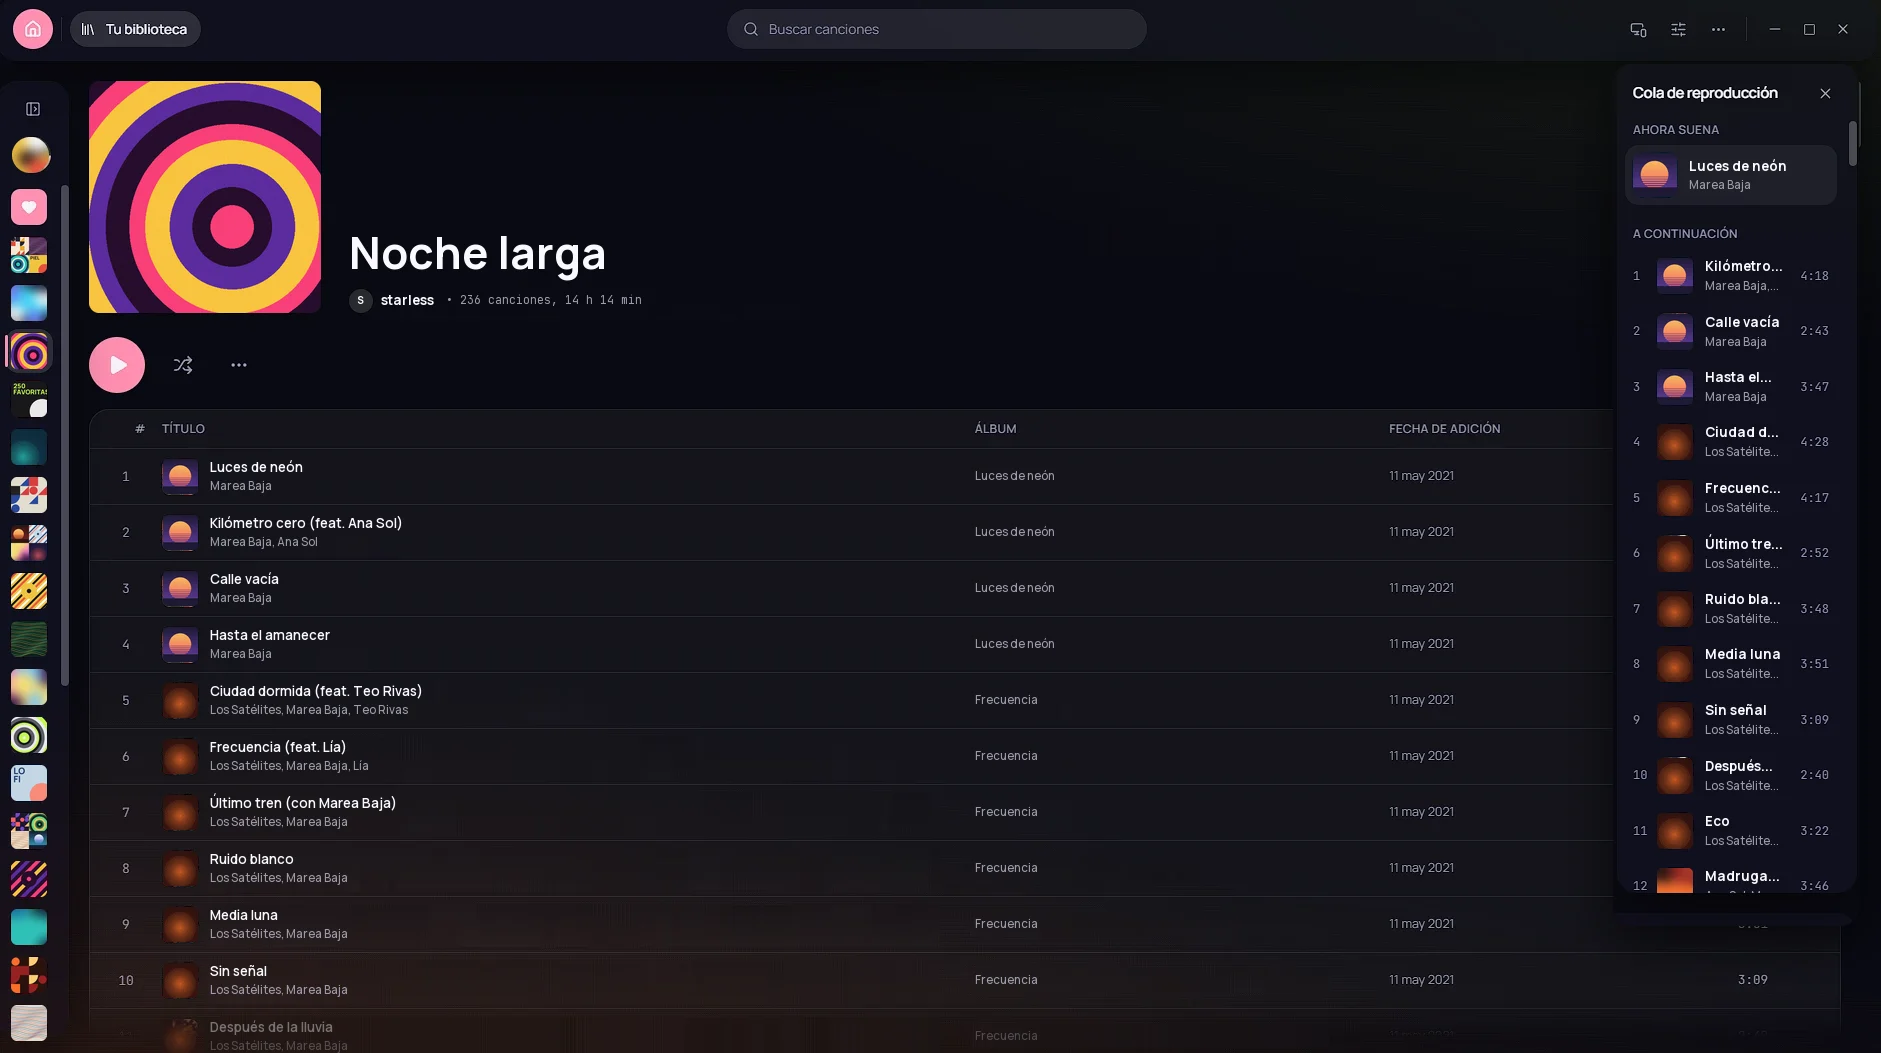
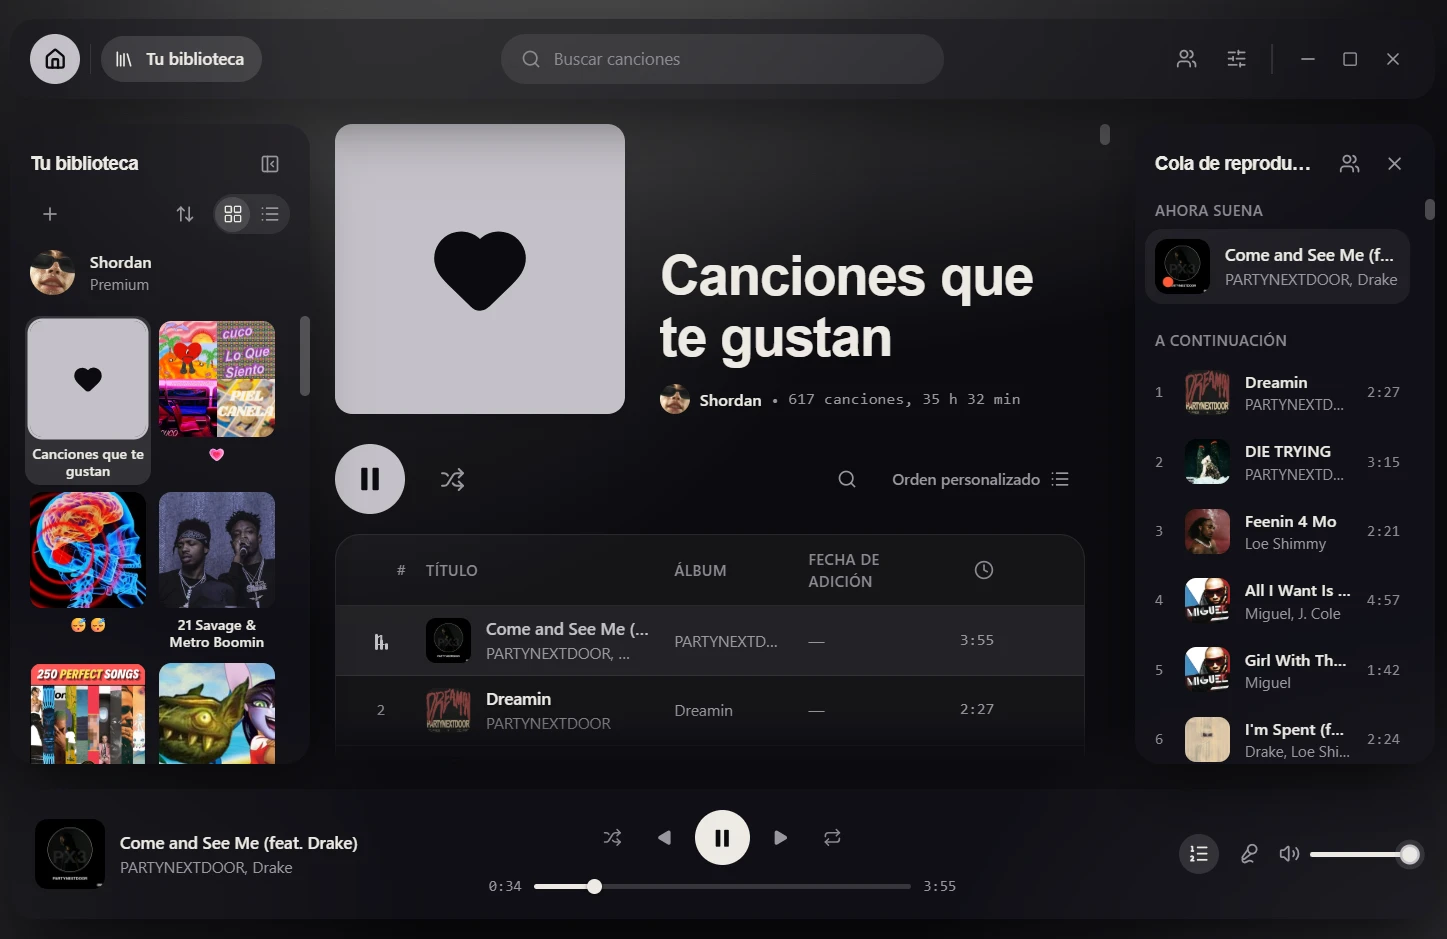
docs(site): describe the glass key and retake two screenshots
The library and queue captures now show the app with the new identity; the
library one is trimmed of a strip of desktop on its right edge. site/DESIGN.md
drops the chrome key for the ember-under-glass one and notes that the
playlist and settings captures still show the old look.

diff --git a/site/DESIGN.md b/site/DESIGN.md
@@ -5,6 +5,7 @@ colors:
   ground: "#0b0b0f"
   night: "#15151b"
   chrome: "#c4c1c8"
+  glass: "rgb(255 255 255 / 0.14)"
   frost: "#edeae3"
   body: "#c4c1c8"
   mute: "#9a97a0"
@@ -66,14 +67,14 @@ spacing:
   block: "48px"
 components:
   download-key:
-    backgroundColor: "{colors.chrome}"
-    textColor: "{colors.ground}"
+    backgroundColor: "{colors.glass}"
+    textColor: "{colors.frost}"
     typography: "{typography.action}"
     rounded: "{rounded.capsule}"
     padding: "15px 24px"
   download-key-compact:
-    backgroundColor: "{colors.chrome}"
-    textColor: "{colors.ground}"
+    backgroundColor: "{colors.glass}"
+    textColor: "{colors.frost}"
     rounded: "{rounded.capsule}"
     padding: "12px 18px"
   player-bar:
@@ -112,13 +113,13 @@ The page is a still room with one thing moving in it: a pool of black ferrofluid
 
 Order comes from rings, not boxes. Concentric hairline circles centred on the pool pass through the top edge of every section, so reading down the page is travelling outward from the speaker; each section change sends a wave from one ring to the next. Content sits on the ground between hairlines, never in cards, never behind glass.
 
-Colour is withheld on purpose. Void for the ground, glass over Night for the one floating surface, Bone for type, and polished chrome for the single action. The one hue is Ember, on the player's progress fill and nothing else; everything else is reflected light. The user rejected a colourful, retro, giant-condensed world before this one; this system is the answer to that rejection.
+Colour is withheld on purpose. Void for the ground, glass over Night for the one floating surface, Bone for type, and frosted glass with an Ember light under it for the single action. Ember is the one hue: under the download keys and on the player's progress fill, nothing else; everything else is reflected light. The user rejected a colourful, retro, giant-condensed world before this one; this system is the answer to that rejection.
 
 **Key Characteristics:**
 - One moving object (the pool); everything else still.
 - Concentric rings as the page's structure; one ring per section.
 - Grey palette; one warm light (Ember) on the progress fill; otherwise hue only as reflected light.
-- One chrome object, the download key, rendered as a real reflection.
+- One action, the download key: frosted glass with an ember breathing under it.
 - Hairline rules instead of containers.
 - A fixed player bar that treats each section as a track.
 
@@ -127,12 +128,13 @@ Colour is withheld on purpose. Void for the ground, glass over Night for the one
 A grey ramp from Void to Bone, faintly warm, with one accent: Ember.
 
 ### Primary
-- **Polished Chrome** (chrome): the download key and nothing else. Its flat value is only the fallback; the shipped face is painted per pixel as a reflection (bright ceiling over the label, a crisp dark horizon below it, a grey room underneath, a softbox strip on the straight face only).
+- **Ember under glass**: the download key and nothing else. A capsule of frosted glass (white 14% to 4%, white 18% border, `blur(16px) saturate(160%)`) with a blurred Ember light beneath it.
+- **Silver** (chrome, `#C4C1C8`): the second song in the crossfade figure.
 
 ### Neutral
-- **Void** (ground, `#0B0B0F`): the page, the room around the pool, and the shader's floor colour. Also the text colour on chrome.
+- **Void** (ground, `#0B0B0F`): the page, the room around the pool, and the shader's floor colour.
 - **Night** (night, `#15151B`): the base under the player's glass, the window frame, the pool's fallback.
-- **Ember** (ember, `#FF5A36`): the player's progress fill. The only fill with hue; never in the logo, never a second place on the page.
+- **Ember** (ember, `#FF5A36`): the light under the download keys and the player's progress fill. The only hue on the page; never in the logo, never anywhere else.
 - **Bone** (frost, `#EDEAE3`): headings, the active player title, focus outline, selection.
 - **Body** (body, `#C4C1C8`): reading copy in paragraphs, ledes and lists; one step under frost so headings lead.
 - **Smoke** (mute, `#9A97A0`): metadata, nav links at rest, version numbers, fine print, captions.
@@ -140,9 +142,9 @@ A grey ramp from Void to Bone, faintly warm, with one accent: Ember.
 - **Groove** (track): the empty progress track under the player title.
 
 ### Named Rules
-**The Reflected Light Rule.** Apart from Ember on the progress fill, no hue is applied as a fill, accent, or text colour. Colour appears only where the shader or the key computes reflected light. The shader's lights were moved from cool blue to the brand's grey with the new identity.
+**The Reflected Light Rule.** Apart from Ember under the keys and on the progress fill, no hue is applied as a fill, accent, or text colour. Colour appears only where the shader computes reflected light. The shader's lights were moved from cool blue to the brand's grey with the new identity.
 
-**The One Chrome Rule.** Chrome belongs to the download action alone. A second chrome object on a page dilutes the only thing the eye should reach for after the pool.
+**The One Ember Rule.** The light under the glass belongs to the download action alone. A second glowing object on the page dilutes the only thing the eye should reach for after the pool.
 
 ## Typography
 
@@ -176,7 +178,7 @@ At 860px and below the pool moves above the words (centred at 50% across, 34% do
 
 ## Elevation & Depth
 
-Flat ground; depth is rendered, not stacked. The pool's depth comes from the oblique raymarch and its own lighting, the key's from its per-pixel reflection. The page itself is one plane of hairlines on black. There are two glass surfaces: the fixed player bar and the hero's logo plate.
+Flat ground; depth is rendered, not stacked. The pool's depth comes from the oblique raymarch and its own lighting, the key's from the light diffused through its glass. The page itself is one plane of hairlines on black. The glass surfaces are the fixed player bar, the hero's logo plate and the download keys.
 
 ### Shadow Vocabulary
 - **Glass** (`.sl-glass`: white 6% fill, white 16% border, `inset 0 1px 0` white 30% highlight, `0 30px 60px` black 50%, `blur(24px) saturate(140%)`): the player bar (over a Night base at 62%, so its title stays legible over running text) and the hero's logo plate.
@@ -191,9 +193,9 @@ Circles and capsules echo the speaker: the pool, the rings, the player's round b
 ## Components
 
 ### Buttons
-- **Download key:** a chrome capsule (999px), Void label at 600 with a 17px stroked download arrow, padding 15px 24px; the compact player variant is 12px 18px at 14px, and icon-only (12px 14px) at 860px and below.
-- **Face:** painted into a canvas behind the label at device pixel ratio up to 2, as a reflection of the pool's room; the flat chrome colour shows only before paint or without canvas.
-- **Hover / Focus:** the softbox strip slides across the face over 320ms (ease-out cubic) and the pool's energy surges; pressing scales to 0.97 over 160ms. Focus is a 2px frost outline offset 3px.
+- **Download key:** a frosted-glass capsule (999px), Bone label at 600 with a 17px stroked download arrow, padding 15px 24px; the compact player variant is 12px 18px at 14px, and icon-only (12px 14px) at 860px and below. Edge: `inset 0 1px 0` white 40% on top, a faint Ember `inset 0 -8px 18px` at the bottom, and a `0 14px 34px` black 50% drop.
+- **Ember under the glass (`::before`):** a radial Ember light at the bottom of the capsule, blurred 10px and spilling a little past the edge. At rest it sits low (6px down, 80% wide) at 45% opacity and breathes with the pool's kick (`--beat`, set every frame from the same 112 BPM pulse).
+- **Hover / Focus:** the ember rises and grows (opacity to 85%, scale 1.05, 320–420ms ease-out) and follows the pointer across the key (`--mx`); a white specular line crosses the face over 800ms (`::after`); the arrow drops 2px; the border warms; the pool's energy surges. Pressing scales to 0.97 over 160ms. Focus is a 2px frost outline offset 3px. Reduced motion: no transitions, no beat.
 
 ### Navigation
 - **Style:** a top line of 14px mute links, 26px apart, with the grey mark, the wordmark and the version (DM Mono) at left. Hover shifts to frost over 200ms. On phones only the last link remains.
@@ -220,21 +222,21 @@ Circles and capsules echo the speaker: the pool, the rings, the player's round b
 ### Do:
 - **Do** keep the pool the only continuously moving thing on a page; everything else moves only in answer to the visitor.
 - **Do** separate content with frost hairlines at 10% and let new sections sit on a new ring.
-- **Do** use ease-out cubic-bezier(0.23, 1, 0.32, 1) for every transition: 420ms for the title roll, 1400ms for the ring wave, 320ms for the key's slide.
+- **Do** use ease-out cubic-bezier(0.23, 1, 0.32, 1) for every transition: 420ms for the title roll, 1400ms for the ring wave, 320–420ms for the ember under the key, 800ms for its specular line.
 - **Do** set every number in tabular figures.
 - **Do** keep reading copy in body colour and metadata in mute, with headlines in frost.
-- **Do** render light (liquid, chrome) computationally so it reads as reflection, at dpr 1 for the full-screen shader.
+- **Do** render the liquid's light computationally so it reads as reflection, at dpr 1 for the full-screen shader.
 
 ### Don't:
 - **Don't** introduce any hue besides Ember on the progress fill; colour otherwise comes only from reflected light.
 - **Don't** put a star anywhere, and don't colour the logo.
 - **Don't** put reading content in cards or behind glass; the product's own window is the only framed object.
-- **Don't** use gradients as decoration; gradients exist only where they render the liquid's or the chrome's light.
-- **Don't** add a second chrome object, or glass beyond the player and the logo plate.
+- **Don't** use gradients as decoration; they exist only where they render light: the liquid, the glass, the ember, the silver wordmark.
+- **Don't** add a second glowing object, or glass beyond the player, the logo plate and the download keys.
 - **Don't** use condensed widths or giant poster type beyond the hero wordmark.
 
 <!-- OPEN ITEMS (not part of the system):
-- The app section holds a labelled sample window, waiting for the user's real screenshot; its placeholder greys are not tokens.
+- The app section's window shows real captures in `public/shots/`. `1-biblioteca` and `3-cola` were retaken with the new identity; `2-playlist` and `4-ajustes` still show the old pink look and need retaking.
 - Fonts load from Google Fonts; the Astro build could self-host Syne, DM Sans and DM Mono.
 Direction: .impeccable/surfaces/index-html.md, seed:493bf2d1c9f053b5 -->
 
